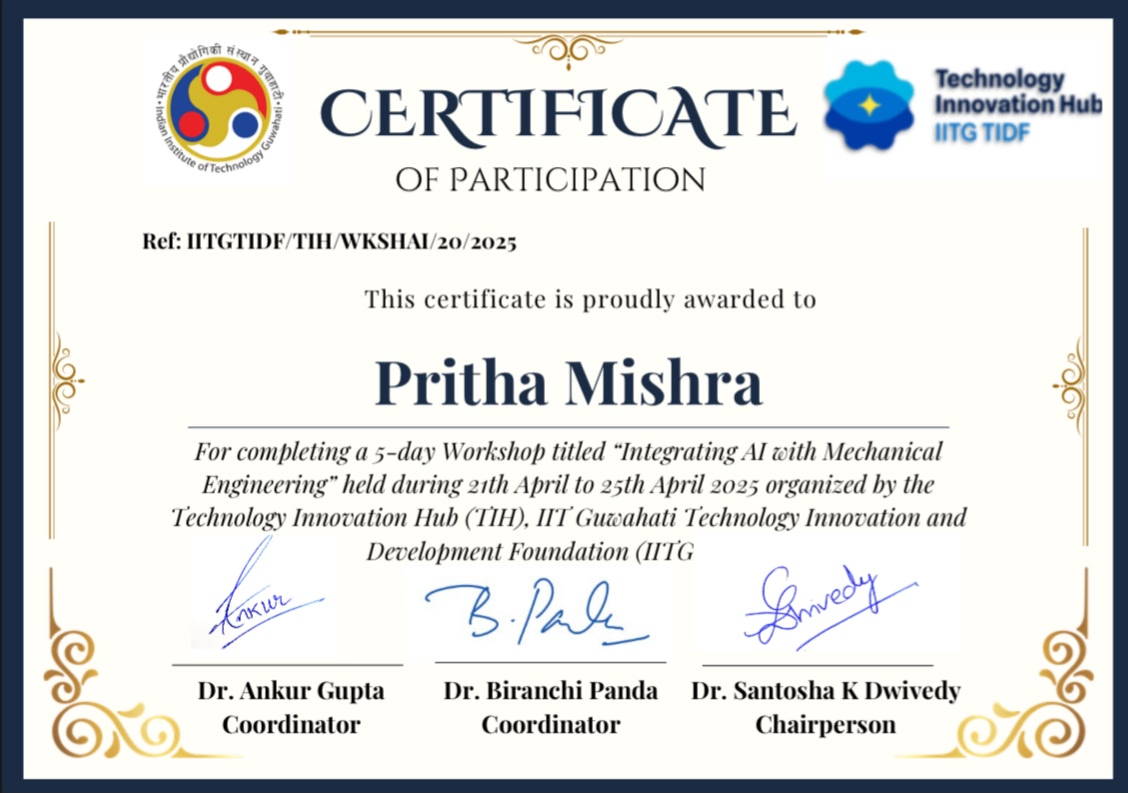
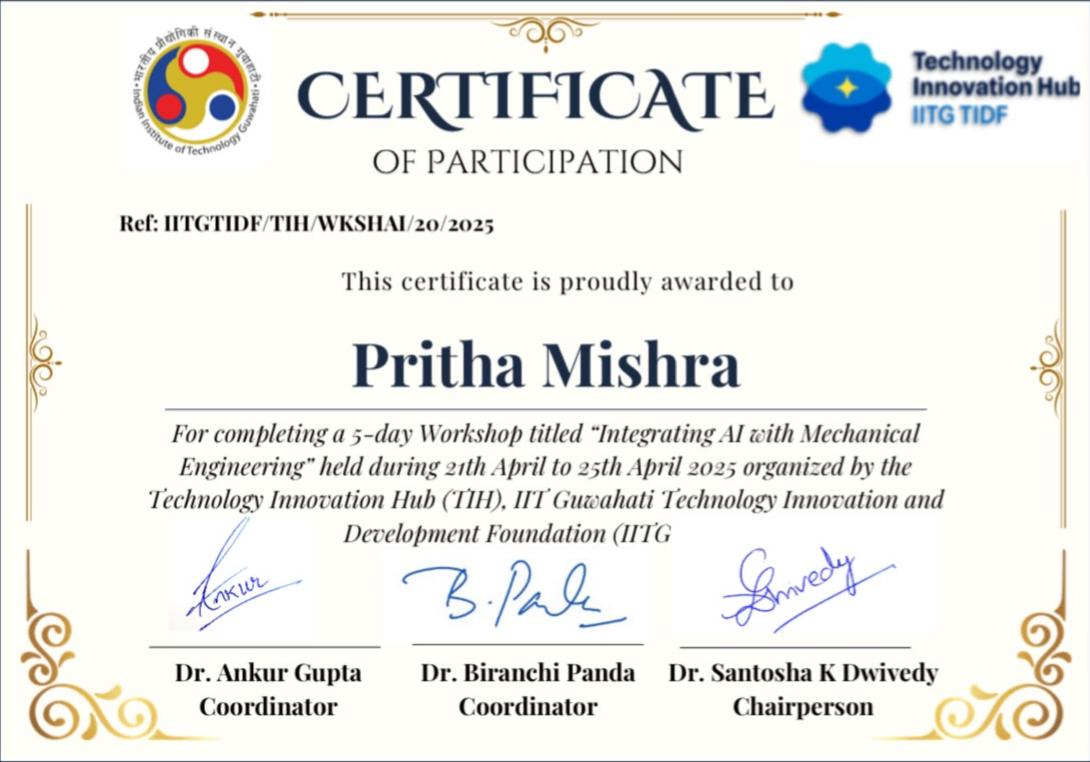
photo modif

Changed region(s): [[0.0, 0.0, 1.0, 1.0], [0.0936, 0.2717, 0.7486, 0.3924]]

diff --git a/components/Publications.tsx b/components/Publications.tsx
@@ -44,16 +44,16 @@ export default function Publications() {
                         {item.status}
                       </span>
                     </div>
-                    <div className="flex-shrink-0">
+                    <div className="w-60 flex-shrink-0">
                       <motion.img
                         src={item.image}
                         alt={item.title}
-                        className="h-40 w-60 cursor-pointer rounded-xl border-2 border-[#8B2635]/30 object-cover transition-colors hover:border-[#8B2635]"
+                        className="h-40 w-full cursor-pointer rounded-xl border-2 border-[#8B2635]/30 object-cover transition-colors hover:border-[#8B2635]"
                         whileHover={{ scale: 1.02 }}
                         transition={{ duration: 0.2 }}
                         onClick={() => setLightbox({ src: item.image, alt: item.title })}
                       />
-                      <p className="mt-1.5 text-center text-xs text-slate-500 dark:text-[#8b949e]">
+                      <p className="mt-1.5 w-full text-center text-xs text-slate-500 dark:text-[#8b949e]">
                         WiFi-Controlled Humanoid Robotic Arm
                       </p>
                     </div>
